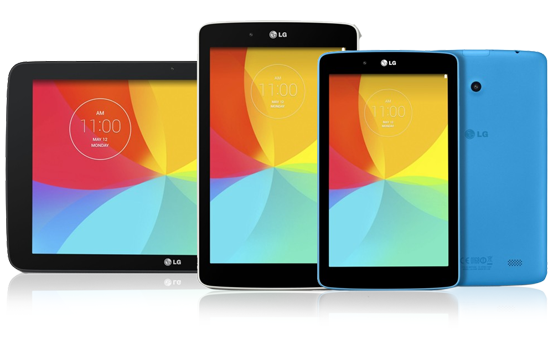
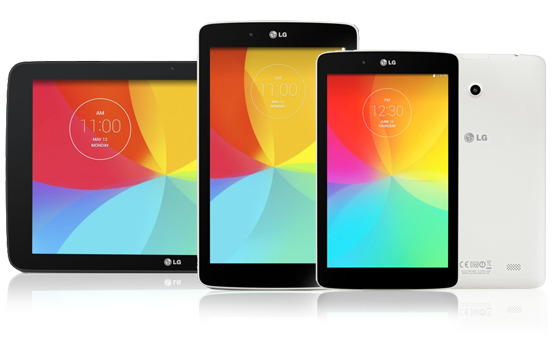
Updated LG gpad 7 details

Changed region(s): [[0.5523, 0.1149, 1.0, 0.8621]]

diff --git a/lg/devices.html b/lg/devices.html
@@ -33,10 +33,11 @@
 				</div>
 			</div>
 			<div class="grid_22 push_1 logos_grad" style="position:relative; padding:10px; margin-top:40px;">
+				 <img class="feature_thumb-first feature_thumb" src="images/features/knockon_basic.png" alt=""/>
+				 <img class="feature_thumb" style="width:130px;" src="images/features/knockCode.png" alt=""/>
 				 <img class="feature_thumb-first feature_thumb" src="images/features/icon-Quad-HD-Display.png" alt=""/>
 				 <img class="feature_thumb" src="images/features/icon-Laser-Auto-Focus.png" alt=""/>
-				 <img class="feature_thumb" style="width:130px;" src="images/features/knockCode.png" alt=""/>
-				 <img class="feature_thumb" src="images/features/icon-Qualcomm-Snapdragon.png" alt=""/>
+		 		 <img class="feature_thumb" src="images/features/icon-Qualcomm-Snapdragon.png" alt=""/>
 	  		</div>						
 		</div>
 	</div>		
@@ -164,7 +165,8 @@
 	      			<li><span class="bullet--margin">KnockOn/KnockCode<span class="sup">TM</span></span></li>
 	      			<li><span class="bullet--margin">QPair, Smart Keyboard and Dual Window</span></li>
 	      		</ul>
-	      		<br><br><br><br>
+	      		<h3>COLOUR OPTIONS</h3>
+	      		<p><img style="margin-bottom:20px;" src="images/devices/2coloursborder.png" alt=""/></p>	
 	      		<a href="#"><span class="lgBtn">FIND OUT MORE</span></a>
 	  		</div>
 	  		<div class="grid_12 push_1" style="position:relative; margin-top:50px;">
@@ -172,8 +174,11 @@
 			</div>
 
 	  		<div class="grid_22 push_1 logos_grad" style="position:relative; padding:10px; margin-top:40px;">
-				<img class="feature_thumb-first feature_thumb" style="width:130px;" src="images/features/knockCode.png" alt=""/>
+ 				<img class="feature_thumb-first feature_thumb" src="images/features/knockon_basic.png" alt=""/>
+				 <img class="feature_thumb" style="width:130px;" src="images/features/knockCode.png" alt=""/>
 				 <img class="feature_thumb" src="images/features/True-colour-IPS-mc.png" alt=""/>
+				 <img class="feature_thumb" src="images/features/qpair.png" alt=""/>
+				 <img class="feature_thumb" src="images/features/icon-Qualcomm-Snapdragon.png" alt=""/>
 	  		</div>			
 		</div>
 	</div>	
